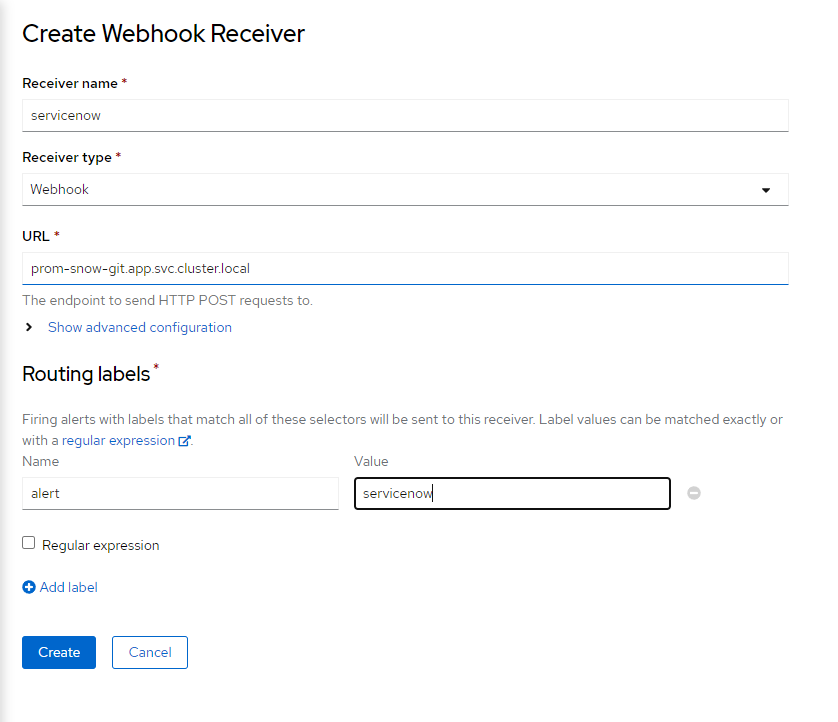
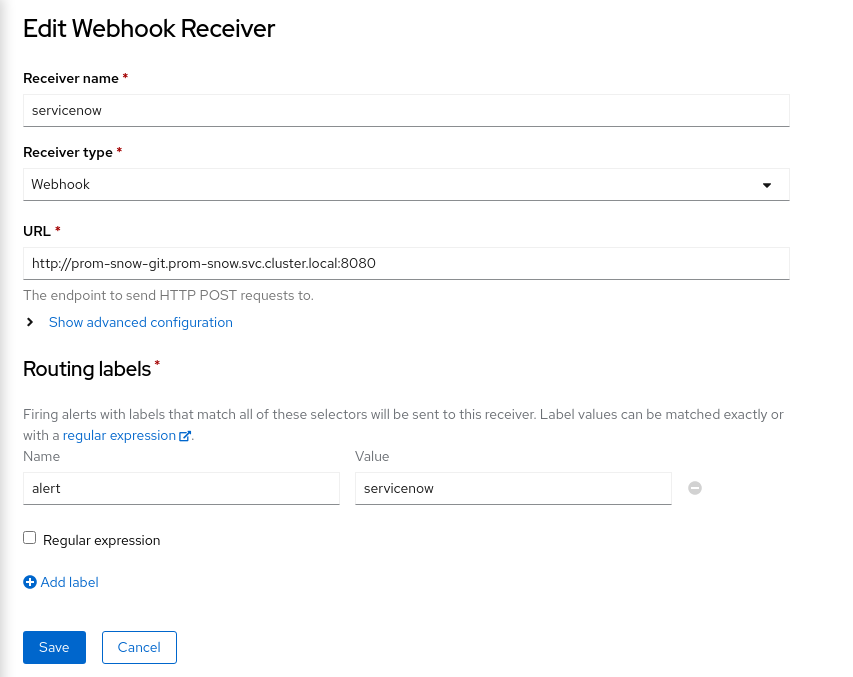
for review

diff --git a/README.md b/README.md
@@ -1,34 +1,177 @@
-# Connecting your prometheus based alerts to an API based ITSM tool
+# Connecting your Prometheus based alerts to an API based ITSM tool
 
 ## Overview
 
-The article describes a mechanism to proxy a simple webhook to various ITSM tools .
+The article describes a mechanism to proxy a simple webhook to various ITSM tools.
 
-In this article today, we are going to integrate openshift based prometheus to Service now .
+In this article today, we are going to integrate openshift based prometheus to Service now. [ The process is similar to any API enabled ITSM tool]
 
 ### Prerequisite
 
-- Assumes you have a fully configured prometheus instance, with alerting enabled on target namespace where you are creating the alerts
-- Assumes you have the basic understanding of the openshift monitoring stack
-- Assumes you have a working instance of ServiceNow or any other ITSM tool which can me managed via API
+- Assumes you have a fully configured prometheus instance, with alerting enabled on the target namespace where you are creating the alerts
+- Assumes you have a basic understanding of the openshift monitoring stack
+- Assumes you have a working instance of ServiceNow or any other ITSM tool which can be managed via API
+- Assumes you have an understanding of nodejs
 
-## Source Code and example
+## Source Code Example
 
-The repo is [provide here for reference](https://github.com/gauravshankarcan/prom-snow)
+The git repo with the sample template to be configured is [provide here for reference](https://github.com/gauravshankarcan/prom-snow)
 
-## Build the proxy
 
-Lets built an proxy app using the docker image
+## Constructing the Proxy to your ITSM tool
 
+We will use a developer instance of SNOW/service now for showing the construction, but the logic is essentially the same for any ITSM tool
+
+The git repo contains an app folder that has a simple 1-page nodejs code which we will be using to construct a docker image to be customized for your needs.
+
+### Let's prepare the server.js file
+
+Open up the file app/server.js  this file contains an express-based app that receives data as we webhook from prometheus .  
+
+> note: At a later point of this document we will show how to configure prometheus webhooks on openshift 
+
+The request we receive from Prometheus is a post request hence we use the simple function, which captures the body of the post and sends it to be parsed by the requestParse function
+
+```javascript
+app.post('/',jsonParser, async (req, res) => {
+  await requestParse(req.body)
+  res.send('Success');
+});
 ```
-oc new-app https://github.com/gauravshankarcan/prom-snow
+The file contains 5 essential functions
+- requestParse
+- itsmLogin
+- constructUniqueString
+- searchQuery
+- createRecord/UpdateRecord/DeleteRecord
+
+we will be going through each of the above to configure and customize to your needs
+
+#### Request Parser
+
+This is the main control function that decides the kind of operations which needs to be performed.
+
+To view a sample request body format, refer to the [webhook configurations](https://prometheus.io/docs/alerting/latest/configuration/#webhook_config) 
+
+The webhook body is received from prometheus and contains multiple alerts that are grouped together, hence it is necessary to write a for loop on the alert section 
+
+After the login function `itsmLogin`, for each alert, we need to create a unique fingerprint which is a unique identifier used to query the ITSM server to decide, if a request has to be updated or created, or marked as closed.
+
+The unique string which determines the kind of operation that is needed to be performed is done by `constructUniqueString` function()
+
+The `searchQuery` function returns a search result from ITSM tool to see if a record exists and helps decide the type of operation which needs to be performed. The `if else conditions` are a mechanism to decide the operation using the search results.
+
+```javascript
+
+const requestParse = async (body) => {
+  const login = await itsmLogin();
+  body.alerts.forEach(async (alert) => {
+        try {    
+                  console.log(alert)
+                  const result = await searchQuery(login,constructUniqueString(alert))
+                  if(result.length == 0 && alert.status === "firing") {  // no record exists create new record
+                    await createRecord(login,constructUniqueString(alert),alert)
+                  } else if(result.length == 1 && alert.status === "firing") { // update record with last info
+                    await updateRecord(login,result[0].sys_id,alert)
+                  } else if(result.length == 1 && alert.status === "resolved") { // resolve record
+                    await closeRecord(login,result[0].sys_id,alert)
+                  } else { // somthing is wrong
+                    console.log("more than 1 record found for search criteria")
+                    console.log(alert)
+                    console.log("Search string: "+constructUniqueString(alert))
+                  }
+         }
+         catch (e) {
+          console.log(e)
+         }
+    });
+};
 ```
 
-Now that the app is running , it time to direct alerts to the proxy
+#### Itsm Login function
+
+This function is fired once per webhook received from prometheus and is responsible for login into your ITSM.  Depending on the ITSM tool / Auth method you choose the rest request may change.
+The end goal of this request is to return a Bearer token for further calls 
+
+> Note:  all the variables can be replace by environment data using process.env  hence collecting data from container/pod environment . This can be injected via standard mechanisms like secrest /config maps etc 
+
+```javascript
+const  itsmLogin = async () => {
+  const itsmLoginRequestConstruct ={
+    baseURL: "https://dev105291.service-now.com/oauth_token.do",
+    method: "POST",
+    rejectUnauthorized: false,
+    data: querystring.stringify({
+      grant_type: 'password',   
+      client_id: '<sample>', // Process.env.client_id  to obtain from environment variables
+      client_secret: '<sample>', // Process.env.client_secret  to obtain from environment variables
+      username: '<sample>', // Process.env.username  to obtain from environment variables
+      password: '<sample>'  // Process.env.password  to obtain from environment variables
+      }),
+    headers: {
+      'Content-Type': 'application/x-www-form-urlencoded'
+    }      
+  }
+  const login = await axios.request(itsmLoginRequestConstruct)
+  return login.data
+}
+```
+
+#### Construct Unique fingerprint
+
+This function has an input variable of the alert json and returns a unique string that is used to create or find a unique ticket on your ITSM tool.
+
+> Note: Ensure this string is unique enough such that ITSM will never return more than 1 record
+
+```javascript
+const constructUniqueString = (alert) => {
+  return  alert.labels.alertname +"-"+ alert.labels.namespace+"-"+alert.fingerprint
+}
+```
+
+#### The search criteria
+
+This function searches the ITSM tool 
+> Note: The request object can be constructed in many ways to suit your needs , in the case below my unique Identifier is short_description field. The Rest call can be constructed to search for any field which contains the unique string, however ensure the return only retuns a max of 1 records.
+
+The header is populated with the login token obtained from Login Function
+
+```javascript
+  const itsmSearchConstruct ={
+    baseURL: "https://dev105291.service-now.com/api/now/table/incident",
+    method: "GET",
+    rejectUnauthorized: false,
+    params: {
+      sysparm_limit: 10,
+      short_description: uniqueString
+    },
+    headers: {
+      'Content-Type': 'application/x-www-form-urlencoded',
+      'Authorization': 'Bearer '+login.access_token
+    }      
+  }
+  const searchResult = await axios.request(itsmSearchConstruct)
+  return searchResult.data.result
+```
+
+### The Create / Update and closed methods
+
+These 3 functions represented by `createRecord`, `updateRecord` and `closeRecord` in the server.js file execute based on the control function `requestParse` . 
+
+When creating a new record ensure the unique fingerprint is set on any field, such that the search function `searchQuery`` can retrieve the record using the unique fingerprint field.
+
+Ensure the Update record does not modify the unique field, however, all other fields in the ITSM record are capable of being modified
+
+The resolve function will usually be triggered by the last call made by prometheus with that fingerprint. Prometheus sets `alert.status` to resolved . this is a clear indication that the request or incident can be resolved.
+
+## Build the proxy and generating the test alert
+
+Let's build a proxy app using the docker image
+Sample Docker file is the app folder. you can build the image and deploy after configuring it based on the above steps . Ensure all the credentials are passed as environment variables as secrets.
 
 Let create an alert with label matchers  ``alert=servicenow``
 
-```
+```yaml
 apiVersion: monitoring.coreos.com/v1
 kind: PrometheusRule
 metadata:
@@ -44,84 +187,28 @@ spec:
     - alert: ExampleAlert
       expr: vector(1)
       labels:
-        alert: servicenow
+        alert: servicenow  ### this is a unique identifier to send requests on the webhook , this should match the next steps
 ```
 
-create a receiver of type web hook
+create a receiver of type webhook
 
-> your url may be different based on your service
->
-> Depending on how you have set up the service you may want to add
->
-> ```
-> http://<svc>:port  in the url below
-> ```
+> your url may be different based on your service.
+Depending on how you have set up the service you may want to add
+
+```
+http://<svc>:port  in the url below
+```
 
 ![](images/receiver.PNG)
 
-The moment alert fires next you will notice the output format in the logs of the proxy created earlier
+The moment alert fires next you will notice the output in the logs of the proxy container.
 
-The logs of the proxy pod will show something similar to below
+This is the indication that the proxy image has received the webhook and will start the sending process to service now. Once the request has been completed, you should see the request in service now
 
-```
-Running on http://0.0.0.0:8080
-/
-"POST"
-{
-  "receiver": "servicenow",
-  "status": "firing",
-  "alerts": [
-{
-      "status": "firing",
-      "labels": {
-        "alert": "servicenow",
-        "alertname": "ExampleAlert",
-        "namespace": "prom-snow"
-      },
-      "annotations": {},
-      "startsAt": "2023-01-19T21:22:07.846Z",
-      "endsAt": "0001-01-01T00:00:00Z",
-      "generatorURL": "https://thanos-querier-openshift-monitoring.apps-crc.testing/api/graph?g0.expr=vector%281%29&g0.tab=1",
-      "fingerprint": "d0212c4c33b62441"
-    }
-  ],
-  "groupLabels": {
-    "namespace": "prom-snow"
-  },
-  "commonLabels": {
-    "alert": "servicenow",
-    "namespace": "prom-snow"
-  },
-  "commonAnnotations": {},
-  "externalURL": "https:///console-openshift-console.apps-crc.testing/monitoring",
-  "version": "4",
-  "groupKey": "{}/{alert=\"servicenow\"}:{namespace=\"prom-snow\"}",
-  "truncatedAlerts": 0
-}
+Similarly, once the alert has been resolved, the servicenow record would also resolve . ( make take a few minutes for prom to detect the alert resolution and send the webhook.)
 
-```
+![](images/snow.png)
 
-We are now going to use this request and translate this to a Servicenow compatible API ( similar process can be used for other ITSM tools )
+## Summary
 
-The body of the request contains the necessary data to construct the API call to servicenow
-
-## Constructing the Proxy to your ITSM tool
-
-We will use a developer instance of SNOW for showing the construction, but the logic is essentially the same for any ITSM tool
-
-The first section in my node.js code is to receive the request using the express nodejs framework . Express is pretty popular rest javascript based frame work 
-
-```
-## Using the path "/" we capture requests and send to req object  thus the data from prometheus arrives on req.body
-
-const app = express();
-app.post('/',jsonParser, (req, res) => {
-   .
-   .
-   .
-  res.send('Success');
-});
-```
-
-
-Now that we have the data o req.body we will pass it to function ro be parsed and modified to the required format
+That was lot of info, but once you have built it, It will have long-term benefits of being able to integrate alerting in your existing servicenow incident process flow.
